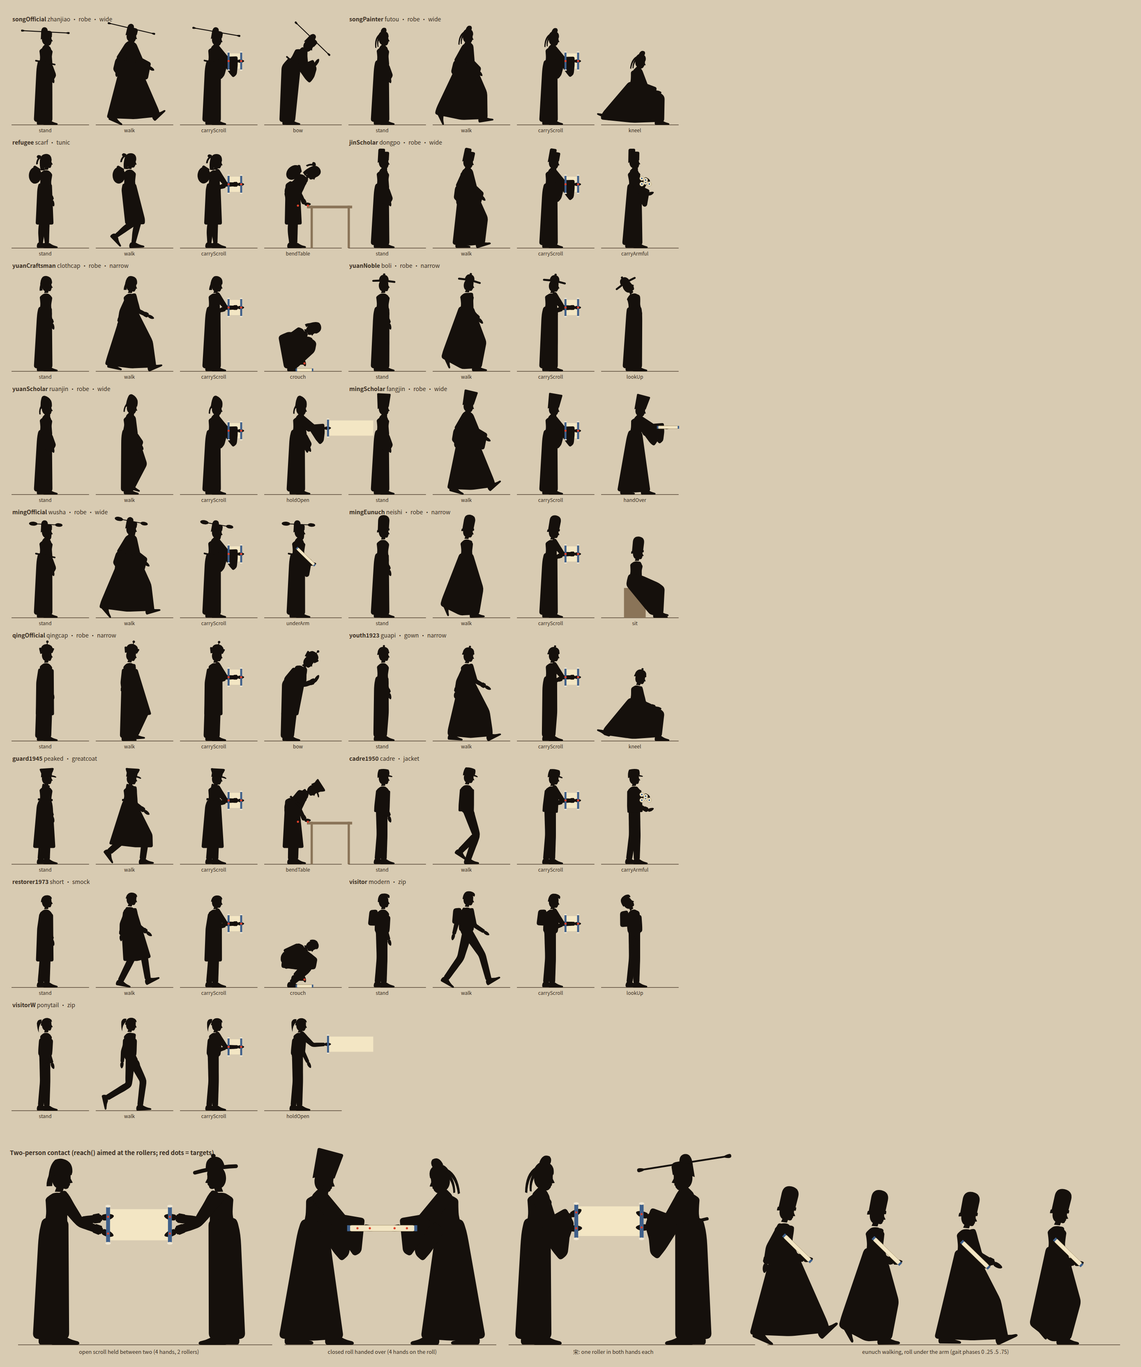
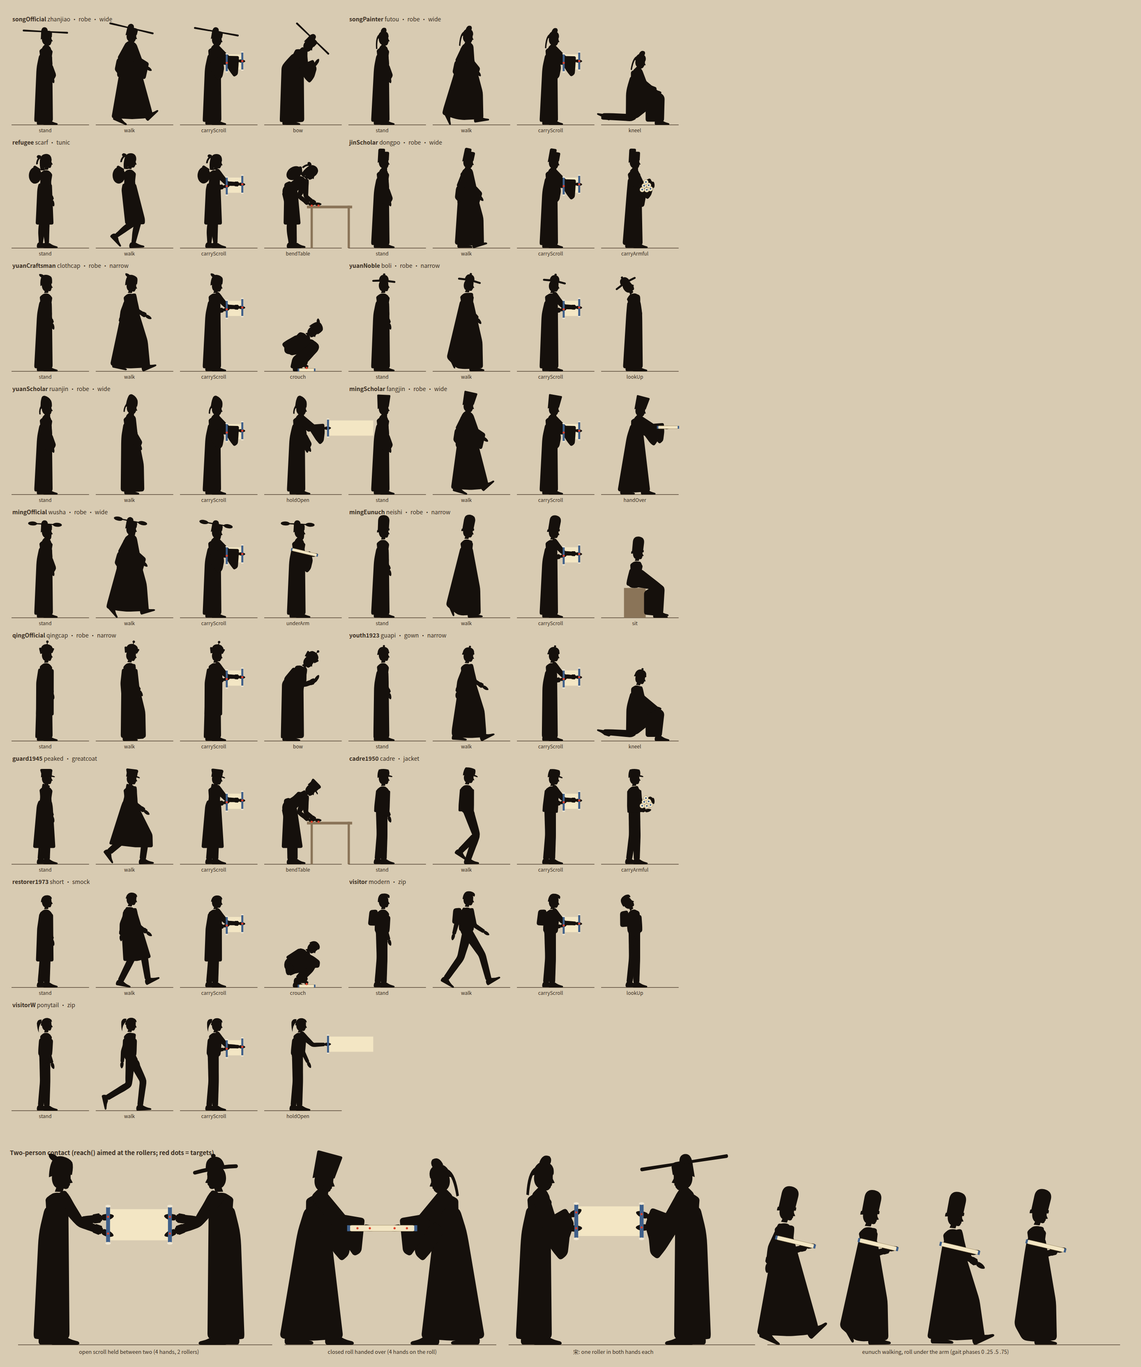
ep43 film: silhouette figure kit (17 era looks, IK contacts, pose builders) + sheet
Claude-Session: https://claude.ai/code/session_01C8LPkwnEu6qcFveZs3Kp2N

diff --git a/episodes/43-qingming/film/src/figures.ts b/episodes/43-qingming/film/src/figures.ts
@@ -37,14 +37,13 @@ export type LookQ = {
 	sleeves?: 'wide' | 'narrow';
 	beard?: 'short' | 'long' | 'full' | 'moustache';
 	build?: number;                      // girth multiplier (1 = kit)
-	belt?: boolean;                      // official's hoop belt standing off the waist
 	pack?: 'bundle' | 'backpack';        // refugee's cloth bundle / visitor's backpack
 	surcoat?: boolean;                   // 清 knee-length 补褂 over the robe
 };
 
 /** every look the ep43 storyboard needs */
 export const LOOKS = {
-	songOfficial: {head: 'zhanjiao', dress: 'robe', sleeves: 'wide', belt: true, beard: 'short', build: 1.06},
+	songOfficial: {head: 'zhanjiao', dress: 'robe', sleeves: 'wide', beard: 'short', build: 1.06},
 	songPainter: {head: 'futou', dress: 'robe', sleeves: 'wide', beard: 'short'},
 	refugee: {head: 'scarf', dress: 'tunic', pack: 'bundle'},
 	jinScholar: {head: 'dongpo', dress: 'robe', sleeves: 'wide', beard: 'long'},
@@ -52,7 +51,7 @@ export const LOOKS = {
 	yuanNoble: {head: 'boli', dress: 'robe', sleeves: 'narrow', beard: 'moustache', build: 1.08},
 	yuanScholar: {head: 'ruanjin', dress: 'robe', sleeves: 'wide', beard: 'long'},
 	mingScholar: {head: 'fangjin', dress: 'robe', sleeves: 'wide', beard: 'long'},
-	mingOfficial: {head: 'wusha', dress: 'robe', sleeves: 'wide', belt: true, beard: 'full', build: 1.06},
+	mingOfficial: {head: 'wusha', dress: 'robe', sleeves: 'wide', beard: 'full', build: 1.06},
 	mingEunuch: {head: 'neishi', dress: 'robe', sleeves: 'narrow'},
 	qingOfficial: {head: 'qingcap', dress: 'robe', sleeves: 'narrow', surcoat: true, beard: 'moustache'},
 	youth1923: {head: 'guapi', dress: 'gown', sleeves: 'narrow', build: 0.96},
@@ -122,11 +121,20 @@ const calib = (g: string) => {
 	for (let i = 0; i < 16; i++) top += gaitPose(g, i / 16)[`Top`][1] / 16;
 	gaitCal[g] = {phi, k: 1 / top}; return gaitCal[g];
 };
-/** the mocap walk at phase u (loops): feet re-modelled so the stance foot is flat and planted, scaled to head top ≈ 1 */
-export const gaitPose = (g = '08_04', u = 0): Pose => {
-	const c = calib(g), p = rawGait(g, u);
+/**
+ * the mocap walk at phase u (loops): feet re-modelled so the stance foot is flat and planted, scaled to head top ≈ 1.
+ * step < 1 shortens the stride (leg joints pulled toward the hips in x, arm swing halved by the same amount). Use it only
+ * under long robes, where the legs are hidden: stepFor(look) gives 0.72 for robes/gowns and 1 otherwise.
+ */
+export const gaitPose = (g = '08_04', u = 0, step = 1): Pose => {
+	const c = calib(g), p = rawGait(g, u), hx = p.Hips[0], ak = lerp(1, step, 0.5);
+	const toeV: Record<string, P> = {L: nrm(sub(p.LToe, p.LAnk)), R: nrm(sub(p.RToe, p.RAnk))};
+	if (step !== 1) for (const s of ['L', 'R']) {
+		for (const j of ['Up', 'Knee', 'Ank']) p[`${s}${j}`] = [hx + (p[`${s}${j}`][0] - hx) * step, p[`${s}${j}`][1]];
+		const sh = p[`${s}Sh`]; for (const j of ['Elb', 'Hand']) p[`${s}${j}`] = [sh[0] + (p[`${s}${j}`][0] - sh[0]) * ak, p[`${s}${j}`][1]];
+	}
 	for (const s of ['L', 'R']) {   // rebuild the toe on the sole line of our foot model
-		const A = p[`${s}Ank`], v = nrm(sub(p[`${s}Toe`], A)), sd = rot(v, -c.phi), m: P = [-sd[1], sd[0]];
+		const A = p[`${s}Ank`], v = toeV[s], sd = rot(v, -c.phi), m: P = [-sd[1], sd[0]];
 		p[`${s}Toe`] = add(sub(A, mul(m, BL.ankle)), mul(sd, BL.foot));
 		p[`${s}Tip`] = tipOf(p[`${s}Elb`], p[`${s}Hand`]);
 	}
@@ -135,7 +143,11 @@ export const gaitPose = (g = '08_04', u = 0): Pose => {
 	return q;
 };
 /** body units travelled per gait cycle (advance x by stride * h * cycles so the feet do not slide) */
-export const gaitStride = (g = '08_04') => GAITS[g].stride * calib(g).k;
+export const gaitStride = (g = '08_04', step = 1) => GAITS[g].stride * calib(g).k * step;
+/** stride scale for a look: long robes and gowns walk with shorter steps so the hem does not tent out */
+export const stepFor = (look: LookQ) => (look.dress === 'robe' || look.dress === 'gown' ? 0.72 : 1);
+/** a walk pose suited to the look (gaitPose with stepFor(look)); advance x by gaitStride(g, stepFor(look)) * h per cycle */
+export const walkFor = (look: LookQ, u: number, g = '08_04'): Pose => gaitPose(g, u, stepFor(look));
 export const gaitSeconds = (g = '08_04') => GAITS[g].seconds;
 
 /** designed pose by 2D forward kinematics. Degrees; legs/arms from straight down, + = forward; lw/rw bend the hand off the forearm */
@@ -271,18 +283,17 @@ export const figurePaths = (o: FigOpts): string[] => {
 	const hp = (d: string) => out.push(tx(d, HL));
 	hp('M-0.02,0.07 C-0.066,0.05 -0.072,-0.045 -0.018,-0.066 C0.028,-0.08 0.058,-0.046 0.055,-0.014 L0.058,0.002 L0.074,0.024 L0.058,0.03 L0.06,0.041 L0.055,0.047 C0.057,0.064 0.041,0.072 0.025,0.068 L0.022,0.09 L-0.025,0.095 Z');
 	const sw = Math.sin(T * 3.1) * 0.01, sw2 = Math.sin(T * 3.7 + 1) * 0.012;
-	const wing = (x0: number, x1: number, y: number, t0: number, t1: number) => { const dx = Math.sign(x1 - x0), e = x1 - dx * t1 / 2;   // a straight wing ending in a round paddle
-		return `M${x0},${y - t0 / 2} L${e - dx * 0.03},${y - t0 / 2} Q${e - dx * 0.012},${y - t1 / 2} ${e},${y - t1 / 2} Q${x1},${y - t1 / 2} ${x1},${y} Q${x1},${y + t1 / 2} ${e},${y + t1 / 2} Q${e - dx * 0.012},${y + t1 / 2} ${e - dx * 0.03},${y + t0 / 2} L${x0},${y + t0 / 2} Z`; };
+	const strap = (x0: number, x1: number, y: number, t0: number, t1: number) => { const dx = Math.sign(x1 - x0), r = t1 * 0.45, e = x1 - dx * r;   // a flat straight strap, a touch wider at the end, softly squared tip
+		return `M${x0},${y - t0 / 2} L${e},${y - t1 / 2} Q${x1},${y - t1 / 2} ${x1},${y - t1 / 2 + r} L${x1},${y + t1 / 2 - r} Q${x1},${y + t1 / 2} ${e},${y + t1 / 2} L${x0},${y + t0 / 2} Z`; };
 	switch (look.head) {
 		case 'zhanjiao':   // stiff black cap, raised back, long straight wings
 			hp('M-0.07,0.012 L-0.07,-0.07 Q-0.068,-0.096 -0.042,-0.098 L0.032,-0.096 Q0.058,-0.094 0.06,-0.068 L0.06,-0.022 Q0.0,-0.03 -0.07,0.012 Z');
 			hp('M-0.07,-0.07 Q-0.072,-0.134 -0.032,-0.136 Q0.004,-0.136 0.008,-0.09 Z');
-			hp(wing(-0.03, -0.31, -0.082, 0.011, 0.024)); hp(wing(-0.03, 0.27, -0.082, 0.011, 0.024)); break;
+			hp(strap(-0.02, -0.29, -0.084, 0.016, 0.022)); hp(strap(-0.02, 0.25, -0.084, 0.016, 0.022)); break;
 		case 'futou':      // soft 幞头: round crown, knot bump, two soft tails
 			hp('M-0.068,0.004 Q-0.068,-0.092 0.0,-0.092 Q0.057,-0.088 0.058,-0.024 Q0.0,-0.034 -0.068,0.004 Z');
 			hp('M-0.04,-0.082 Q-0.03,-0.142 0.016,-0.13 Q0.036,-0.112 0.026,-0.084 Z');
-			hp(`M-0.058,-0.05 Q-0.112,${0.0 + sw} ${-0.104 + sw2},0.112 L${-0.09 + sw2},0.114 Q-0.094,0.012 -0.044,-0.032 Z`);
-			hp(`M-0.05,-0.04 Q-0.09,${0.02 + sw} ${-0.074 + sw2 * 0.7},0.1 L${-0.062 + sw2 * 0.7},0.1 Q-0.072,0.03 -0.036,-0.024 Z`); break;
+			hp(`M-0.062,-0.046 Q-0.1,${-0.01 + sw} ${-0.094 + sw2},0.124 L${-0.078 + sw2},0.126 Q-0.08,0.0 -0.05,-0.03 Z`); break;
 		case 'scarf':      // wrapped cloth over skull and nape, knot and short ends at the back
 			hp('M0.058,-0.018 Q0.054,-0.094 -0.006,-0.096 Q-0.074,-0.094 -0.082,-0.02 Q-0.086,0.05 -0.064,0.104 L-0.02,0.1 Q-0.028,0.04 -0.026,0.0 Q0.0,-0.036 0.058,-0.018 Z');
 			hp('M-0.07,-0.07 Q-0.112,-0.09 -0.122,-0.056 Q-0.112,-0.028 -0.072,-0.038 Z');
@@ -290,8 +301,8 @@ export const figurePaths = (o: FigOpts): string[] => {
 		case 'dongpo':     // tall cap: high back wall, stepped lower front
 			hp('M-0.07,0.012 L-0.07,-0.136 Q-0.07,-0.158 -0.046,-0.158 L-0.006,-0.158 Q0.01,-0.158 0.01,-0.142 L0.01,-0.124 L0.042,-0.124 Q0.06,-0.124 0.06,-0.106 L0.06,-0.022 Q0.0,-0.03 -0.07,0.012 Z'); break;
 		case 'clothcap':   // soft rounded cap, slight peak at the back, short flap over the nape
-			hp('M-0.076,0.022 Q-0.084,-0.064 -0.052,-0.098 Q-0.02,-0.118 0.018,-0.104 Q0.056,-0.09 0.062,-0.04 L0.06,-0.02 Q0.0,-0.032 -0.076,0.022 Z');
-			hp('M-0.07,-0.02 Q-0.088,0.03 -0.08,0.07 L-0.046,0.064 Q-0.052,0.02 -0.04,-0.02 Z'); break;
+			hp('M-0.074,0.014 Q-0.084,-0.06 -0.066,-0.098 Q-0.048,-0.126 -0.01,-0.124 Q0.034,-0.12 0.052,-0.098 Q0.064,-0.076 0.062,-0.022 Q0.0,-0.032 -0.074,0.014 Z');
+			hp('M-0.066,-0.088 Q-0.1,-0.104 -0.096,-0.128 Q-0.068,-0.136 -0.04,-0.116 Z'); break;   // soft cloth gathered into a fold at the back
 		case 'boli': {     // 钹笠: dome crown + flat brim with ROUND ends (a stadium, never a point)
 			hp('M-0.058,-0.044 Q-0.06,-0.122 0.0,-0.124 Q0.058,-0.122 0.058,-0.044 Z');
 			hp(ell(0, -0.13, 0.014, 0.012));
@@ -301,12 +312,12 @@ export const figurePaths = (o: FigOpts): string[] => {
 			hp('M-0.072,0.012 Q-0.08,-0.07 -0.07,-0.112 Q-0.064,-0.152 -0.032,-0.15 Q0.022,-0.138 0.048,-0.096 Q0.062,-0.066 0.06,-0.022 Q0.0,-0.032 -0.072,0.012 Z');
 			hp(`M-0.064,-0.04 Q-0.098,${0.01 + sw} ${-0.094 + sw2},0.074 L${-0.078 + sw2},0.074 Q-0.08,0.016 -0.05,-0.03 Z`); break;
 		case 'fangjin':    // tall flat-topped square cap, wider at the top
-			hp('M-0.07,0.01 L-0.086,-0.166 Q-0.087,-0.178 -0.074,-0.178 L0.064,-0.178 Q0.076,-0.178 0.075,-0.166 L0.06,-0.022 Q0.0,-0.03 -0.07,0.01 Z'); break;
+			hp('M-0.07,0.01 L-0.084,-0.152 Q-0.085,-0.163 -0.073,-0.163 L0.062,-0.163 Q0.074,-0.163 0.073,-0.152 L0.06,-0.022 Q0.0,-0.03 -0.07,0.01 Z'); break;
 		case 'wusha':      // 乌纱帽: low front, raised round back, oval wings on short stalks
 			hp('M-0.07,0.012 L-0.07,-0.066 Q-0.068,-0.09 -0.042,-0.092 L0.032,-0.09 Q0.058,-0.088 0.06,-0.064 L0.06,-0.022 Q0.0,-0.03 -0.07,0.012 Z');
 			hp('M-0.07,-0.068 Q-0.074,-0.132 -0.03,-0.134 Q0.008,-0.132 0.01,-0.086 Z');
-			hp('M-0.04,-0.092 L-0.12,-0.092 L-0.12,-0.082 L-0.04,-0.082 Z'); hp(ell(-0.165, -0.087, 0.05, 0.024));
-			hp('M-0.0,-0.092 L0.1,-0.092 L0.1,-0.082 L-0.0,-0.082 Z'); hp(ell(0.14, -0.087, 0.044, 0.021)); break;
+			hp('M-0.03,-0.097 L-0.13,-0.096 L-0.13,-0.082 L-0.03,-0.081 Z'); hp(ell(-0.172, -0.089, 0.054, 0.024));
+			hp('M-0.03,-0.097 L0.08,-0.096 L0.08,-0.082 L-0.03,-0.081 Z'); hp(ell(0.122, -0.089, 0.054, 0.024)); break;
 		case 'neishi':     // eunuch: tall rounded cap on a band
 			hp('M-0.07,0.008 L-0.072,-0.13 Q-0.072,-0.196 -0.006,-0.198 Q0.062,-0.196 0.062,-0.13 L0.06,-0.022 Q0.0,-0.03 -0.07,0.008 Z');
 			hp('M-0.078,0.014 Q-0.08,-0.004 -0.077,-0.016 L0.066,-0.044 Q0.07,-0.032 0.068,-0.018 Z'); break;
@@ -319,8 +330,8 @@ export const figurePaths = (o: FigOpts): string[] => {
 			hp('M-0.076,0.004 L-0.076,-0.014 L0.065,-0.04 L0.065,-0.024 Z'); hp(ell(-0.002, -0.106, 0.013, 0.012)); break;
 		case 'peaked':     // band, crown flaring up to a raised front (saddle), short visor
 			hp('M-0.068,-0.006 L-0.068,-0.058 L0.06,-0.066 L0.06,-0.026 Q0.0,-0.03 -0.068,-0.006 Z');
-			hp('M-0.068,-0.054 Q-0.084,-0.08 -0.09,-0.1 Q-0.086,-0.112 -0.064,-0.11 L0.05,-0.124 Q0.076,-0.128 0.078,-0.114 Q0.072,-0.084 0.06,-0.062 Z');
-			hp('M0.05,-0.036 Q0.09,-0.038 0.112,-0.022 Q0.116,-0.012 0.102,-0.012 Q0.08,-0.018 0.05,-0.018 Z'); break;
+			hp('M-0.068,-0.054 Q-0.078,-0.076 -0.082,-0.094 Q-0.08,-0.106 -0.062,-0.106 L0.03,-0.111 Q0.062,-0.113 0.063,-0.094 Q0.063,-0.078 0.058,-0.062 Z');
+			hp('M0.05,-0.034 Q0.08,-0.036 0.096,-0.024 Q0.099,-0.015 0.088,-0.015 Q0.07,-0.019 0.05,-0.018 Z'); break;
 		case 'cadre':      // soft cap, flattish crown, short visor
 			hp('M-0.072,0.0 Q-0.08,-0.064 -0.062,-0.1 Q0.0,-0.118 0.052,-0.104 Q0.07,-0.084 0.064,-0.032 Q0.0,-0.034 -0.072,0.0 Z');
 			hp('M0.054,-0.038 Q0.088,-0.038 0.104,-0.026 Q0.104,-0.016 0.09,-0.018 Q0.072,-0.022 0.054,-0.02 Z'); break;
@@ -339,20 +350,33 @@ export const figurePaths = (o: FigOpts): string[] => {
 	// ---- clothing, built on the skeleton
 	const W = add(H, mul(u, 0.07)), tf = (q: P, a: number, c: number): P => add(q, add(mul(f, a), mul(u, c)));   // torso frame offsets
 	const legs = (['L', 'R'] as const).map((s) => ({K: p[`${s}Knee`], A: p[`${s}Ank`], U: p[`${s}Up`]}));
-	if (robeLike) {   // long robe: hull over waist, seat, knees and ankles; hem just above the ankles so the shoes show
-		const g = look.dress === 'gown', fl = g ? 0 : look.surcoat ? 0.004 : 0.018, mf = g ? 0.034 : 0.044, mb = g ? 0.046 : 0.058;
-		const pts: P[] = [tf(W, -0.076 * b, 0), tf(W, 0.07 * b, 0), tf(H, -0.088 * b, 0), tf(H, 0.074 * b, 0), tf(H, -0.09 * b, -0.06), tf(H, 0.072 * b, -0.06)];
-		for (const {K, A} of legs) {
+	if (robeLike) {   // long robe over the leg skeleton: waist→knees hull + knees→hem hull; a shin lying on the floor (kneeling) gets its own piece
+		const g = look.dress === 'gown', fl = g ? 0 : look.surcoat ? 0.004 : 0.016, mf = g ? 0.034 : 0.044, mb = g ? 0.046 : 0.056;
+		// standing / walking (both thighs near vertical): one A-line hull. Seated, kneeling, squatting: waist→knees hull, then the
+		// robe hangs from each horizontal thigh to the floor like a curtain; a shin lying on the floor gets its own low piece.
+		const upper: P[] = [tf(sp, -0.068 * b, -0.02), tf(sp, 0.064 * b, -0.02), tf(W, -0.078 * b, 0), tf(W, 0.07 * b, 0), tf(H, -0.088 * b, 0), tf(H, 0.074 * b, 0), tf(H, -0.09 * b, -0.06), tf(H, 0.072 * b, -0.06)], lower: P[] = [], hems: P[] = [], lying: P[][] = [];
+		const angDown = (a: P, c: P) => Math.atan2(Math.abs(c[0] - a[0]), a[1] - c[1]) / D;
+		const split = legs.some(({U, K, A}) => angDown(U, K) > 50 || angDown(K, A) > 55);
+		for (const {U, K, A} of legs) {
 			const hy = Math.max(A[1] - (g ? 0.0 : 0.01), 0.012);
-			pts.push(add(K, [-0.064 * b, 0]), add(K, [0.058 * b, 0]), add(K, [0, 0.05]), add(A, [-mb, 0.06]), add(A, [mf, 0.06]), [A[0] - mb - fl, hy], [A[0] + mf + fl, hy]);
+			const kp: P[] = [add(K, [-0.064 * b, 0]), add(K, [0.058 * b, 0]), add(K, [0, 0.05])], fp: P[] = [add(A, [-mb, 0.06]), add(A, [mf, 0.06]), [A[0] - mb - fl, hy], [A[0] + mf + fl, hy]];
+			upper.push(...kp);
+			if (angDown(K, A) > 55) { lying.push([...kp, add(K, [0, -0.03]), ...fp]); continue; }
+			lower.push(...kp, ...fp); hems.push(A);
+			if (split && angDown(U, K) > 50) { const c = mix(U, K, 0.42); lower.push(add(c, [0, -0.04]), [c[0], hy]); }
 		}
-		const [a1, a2] = [legs[0].A, legs[1].A];
-		pts.push([(a1[0] + a2[0]) / 2, Math.max(0.008, Math.min(a1[1], a2[1]) - 0.022)]);
-		out.push(rounded(hull(pts), 0.03));
-		if (look.surcoat) {   // 清 补褂: knee length, a step wider than the robe
-			const sp2: P[] = [tf(sp, -0.084 * b, 0), tf(sp, 0.086 * b, 0), tf(H, -0.1 * b, 0), tf(H, 0.09 * b, 0)];
-			for (const {K} of legs) sp2.push(add(K, [-0.082, -0.03]), add(K, [0.08, -0.03]));
-			out.push(rounded(hull(sp2), 0.02));
+		if (hems.length === 2) lower.push([(hems[0][0] + hems[1][0]) / 2, Math.max(0.008, Math.min(hems[0][1], hems[1][1]) - 0.022)]);
+		if (split) { out.push(rounded(hull(upper), 0.03)); if (lower.length) out.push(rounded(hull(lower), 0.03)); }
+		else {   // the cloth falls straight down from its widest points (seat, belly, a forward knee) to the hem
+			const all = [...upper, ...lower], hy = Math.max(0.012, Math.min(legs[0].A[1], legs[1].A[1]) - 0.012);
+			const xs = upper.filter((q) => q[1] > hy + 0.05).map((q) => q[0]);
+			out.push(rounded(hull([...all, [Math.min(...xs) - 0.006, hy], [Math.max(...xs) + 0.006, hy]]), 0.03));
+		}
+		for (const l of lying) out.push(rounded(hull(l), 0.025));
+		if (look.surcoat) {   // 清 补褂: hangs from the shoulders to just below the knee, a step wider than the robe
+			const s2: P[] = [tf(sp, -0.084 * b, 0), tf(sp, 0.086 * b, 0), tf(H, -0.1 * b, 0), tf(H, 0.092 * b, 0)];
+			for (const {K, A} of legs) { const k = mix(K, A, 0.12), kx = H[0] + (k[0] - H[0]) * 0.55; s2.push([kx - 0.088, k[1]], [kx + 0.084, k[1]]); }
+			out.push(rounded(hull(s2), 0.02));
 		}
 	}
 	const skirt = (hemAt: number, mf: number, mb: number, flare: number, top: P[]) => {   // coat skirts: hull from the torso down to a hem between knee and ankle
@@ -365,10 +389,7 @@ export const figurePaths = (o: FigOpts): string[] => {
 	if (look.dress === 'smock') skirt(0.1, 0.068 * b, 0.072 * b, 0.006, [tf(sp, -0.074 * b, 0.02), tf(sp, 0.078 * b, 0.02), tf(W, -0.082 * b, 0), tf(W, 0.08 * b, 0), tf(H, -0.09 * b, 0), tf(H, 0.084 * b, 0)]);
 	if (look.dress === 'jacket') out.push(rounded(hull([tf(sp, -0.076 * b, 0.02), tf(sp, 0.08 * b, 0.02), tf(H, -0.086 * b, 0), tf(H, 0.084 * b, 0), tf(H, -0.086 * b, -0.07), tf(H, 0.084 * b, -0.07)]), 0.014));
 	if (look.dress === 'zip') out.push(rounded(hull([tf(sp, -0.08 * b, 0.0), tf(sp, 0.084 * b, 0.0), tf(H, -0.084 * b, 0.02), tf(H, 0.084 * b, 0.02), tf(H, -0.08 * b, -0.04), tf(H, 0.08 * b, -0.04)]), 0.03));
-	if (look.dress === 'greatcoat') {   // broad collar at the neck, belted waist
-		out.push(rounded([tf(p.Neck1, -0.05, -0.03), tf(p.Neck1, 0.032, -0.04), tf(p.Neck1, 0.04, 0.012), tf(p.Neck1, -0.042, 0.03)], 0.012));
-		out.push(rounded([tf(W, -0.082 * b, 0.012), tf(W, 0.076 * b, 0.012), tf(W, 0.076 * b, -0.012), tf(W, -0.082 * b, -0.012)], 0.006));
-	}
+	if (look.dress === 'greatcoat') out.push(rounded([tf(p.Neck1, -0.05, -0.03), tf(p.Neck1, 0.032, -0.04), tf(p.Neck1, 0.04, 0.012), tf(p.Neck1, -0.042, 0.03)], 0.012));   // broad turned-up collar
 	// ---- wide sleeves: per arm segment, a bag that hangs by gravity below the arm
 	if (look.sleeves === 'wide') for (const s of ['R', 'L']) {
 		const sh = p[`${s}Sh`], el = p[`${s}Elb`], wr = p[`${s}Hand`], dn: P = [0, -1];
@@ -383,8 +404,6 @@ export const figurePaths = (o: FigOpts): string[] => {
 		seg(el, add(wr, mul(nrm(sub(wr, el)), -0.006)), 0.046 * b, 0.05 * b, 0.13, true);
 	}
 	// ---- belt, packs
-	if (look.belt) { const c = tf(W, 0, -0.012), e1 = tf(c, -0.115, 0.004), e2 = tf(c, 0.112, -0.03), d = nrm(sub(e2, e1)), n: P = [-d[1], d[0]];
-		out.push(rounded([add(e1, mul(n, 0.009)), add(e2, mul(n, 0.009)), sub(e2, mul(n, 0.009)), sub(e1, mul(n, 0.009))], 0.008)); }
 	if (look.pack === 'bundle') { const c = tf(sp, -0.12, 0.0), e = (a: number, r: number): P => tf(c, Math.cos(a) * 0.072, Math.sin(a) * r);
 		out.push(rounded(Array.from({length: 12}, (_, i) => e((i / 12) * Math.PI * 2, 0.095)), 0.03));
 		out.push(rounded([tf(sp, -0.06, 0.07), tf(sp, -0.13, 0.11), tf(sp, -0.15, 0.09), tf(sp, -0.07, 0.04)], 0.01)); }
@@ -410,7 +429,7 @@ const atReach = (p: Pose, side: Side, y: number, k = 0.92): P => { const sh = p[
 /** both hands on two rollers in front of the chest (near roller with R, far roller with L), e.g. a short open section or a roll's two ends */
 export const carryScroll = (o: {near?: P; far?: P; base?: Pose} = {}): Pose => {
 	const b = o.base ?? fkPose({...STAND, lean: 4, neck: 6}), sh = b.LSh;
-	return reach(reach(b, 'R', o.near ?? [sh[0] + 0.15, sh[1] - 0.15]), 'L', o.far ?? atReach(b, 'L', sh[1] - 0.15, 0.9));
+	return reach(reach(b, 'R', o.near ?? [sh[0] + 0.13, sh[1] - 0.17]), 'L', o.far ?? atReach(b, 'L', sh[1] - 0.15, 0.93));
 };
 /** one hand on a roller at arm's length (the open scroll held between two people); both = the other hand on the same roller, lower */
 export const holdOpen = (o: {at?: P; both?: boolean; base?: Pose} = {}): Pose => {
@@ -438,41 +457,47 @@ export const kneel = (o: {at?: P} = {}): Pose => {
 	const k = b.LKnee;
 	return reach(reach(b, 'R', [k[0] - 0.01, k[1] + 0.047], {dir: -8}), 'L', [k[0] - 0.075, k[1] + 0.05], {dir: -4});
 };
-/** bent over a table (surface at height `top`), hand(s) flat on it; flatX = palm x of the far hand (auto: within reach) */
+const BEND = (lean: number): FK => ({hip: 0.645, hipX: -0.1 - Math.max(0, lean - 55) * 0.0015, lean, neck: -6, lt: 10, lk: 8, rt: 6, rk: 6, la: 20, le: 30, ra: 10, re: 20});
+/**
+ * bent over a table whose surface is at height `top`, the far (L) hand flat on it at palm x `flatX` (auto: well within reach).
+ * other: 'flat' = the near hand flat too, a little nearer the body; a point = the near palm there; 'hang' = left alone.
+ */
 export const bendTable = (o: {top?: number; flatX?: number; other?: P | 'flat' | 'hang'; lean?: number} = {}): Pose => {
-	const top = o.top ?? 0.47, y = top + 0.017;
-	let lean = o.lean ?? 42, b = fkPose({hip: 0.64, hipX: -0.07, lean, neck: 18, lt: 8, lk: 8, rt: 4, rk: 6, la: 20, le: 30, ra: 10, re: 20});
-	while (b.LSh[1] - (y - 0.0) > (BL.upper + BL.fore) * 0.93 && lean < 80) { lean += 4; b = fkPose({hip: 0.64, hipX: -0.07 - (lean - 42) * 0.0015, lean, neck: 18, lt: 8, lk: 8, rt: 4, rk: 6, la: 20, le: 30, ra: 10, re: 20}); }
-	const sh = b.LSh, r = (BL.upper + BL.fore) * 0.92, dy = sh[1] - y, x = o.flatX ?? sh[0] + Math.sqrt(Math.max(0, r * r - dy * dy)) + BL.grip;
+	const top = o.top ?? 0.47, y = top + 0.017, r = (BL.upper + BL.fore) * 0.92;
+	let lean = o.lean ?? 55, b = fkPose(BEND(lean));
+	while (b.LSh[1] - y > r * 0.96 && lean < 80) b = fkPose(BEND((lean += 3)));
+	const sh = b.LSh, dy = sh[1] - y, x = o.flatX ?? sh[0] + Math.sqrt(Math.max(0, r * r - dy * dy)) + BL.grip;
 	let q = reach(b, 'L', [x, y], {dir: 0});
 	const other = o.other ?? 'flat';
-	if (other === 'flat') q = reach(q, 'R', [x - 0.11, y], {dir: -6});
+	if (other === 'flat') q = reach(q, 'R', [x - 0.075, y], {dir: -4});
 	else if (other !== 'hang') q = reach(q, 'R', other);
 	return q;
 };
-/** carrying an armful of rolled scrolls (or a bundle) against the chest; see armfulAt() for where the load sits */
-export const carryArmful = (): Pose => {
-	const b = fkPose({hip: 0.655, lean: -3, neck: 4, lt: 3, lk: 3, rt: -4, rk: 4, la: 0, le: 90, ra: 0, re: 90}), sh = b.LSh;
-	return reach(reach(b, 'R', [sh[0] + 0.19, sh[1] - 0.25], {dir: 20}), 'L', [sh[0] + 0.15, sh[1] - 0.1], {dir: -30});
+/** the load of carryArmful(): centre and radius in body units, relative to the shoulder */
+const ARMFUL: P = [0.13, -0.17], ARMFUL_R = 0.075;
+/** carrying an armful of rolled scrolls (or a cloth bundle) against the chest: near forearm under the load, far hand over its front */
+export const carryArmful = (base?: Pose): Pose => {
+	const b = base ?? fkPose({hip: 0.655, lean: -3, neck: 6, lt: 3, lk: 3, rt: -4, rk: 4, la: 0, le: 90, ra: 0, re: 90}), c = add(b.LSh, ARMFUL);
+	return reach(reach(b, 'R', [c[0] + 0.03, c[1] - ARMFUL_R - 0.014], {dir: 12}), 'L', [c[0] + ARMFUL_R + 0.008, c[1] + 0.012], {dir: -78});
 };
 /** centre and radius (body units) of the load held by carryArmful() */
-export const armfulAt = (p: Pose): {c: P; r: number} => { const {u, f} = frame(p); return {c: add(p.Spine1, add(mul(f, 0.15), mul(u, -0.06))), r: 0.075}; };
-/** crouched low to pick something up from the floor: the near hand's palm at `at` (default: in reach in front of the feet) */
+export const armfulAt = (p: Pose): {c: P; r: number} => ({c: add(p.LSh, ARMFUL), r: ARMFUL_R});
+/** squatting to pick something up from the floor: the near (R) palm at `at` (default: on the floor in front of the knees) */
 export const crouch = (o: {at?: P} = {}): Pose => {
-	const b = fkPose({hip: 0.3, hipX: -0.12, lean: 60, neck: 14, lt: 100, lk: 142, rt: 78, rk: 128, la: 20, le: 20, ra: 20, re: 20});
-	const sh = b.RSh, y = Math.max(o.at?.[1] ?? 0.04, sh[1] - ARM_REACH * 0.96), at = o.at ?? atReach(b, 'R', y, 0.96);
+	const b = fkPose({hip: 0.22, hipX: -0.08, lean: 52, neck: 6, lt: 110, lk: 152, rt: 98, rk: 142, la: 20, le: 20, ra: 20, re: 20});
+	const sh = b.RSh, y = Math.max(o.at?.[1] ?? 0.035, sh[1] - ARM_REACH * 0.97), at = o.at ? [o.at[0], Math.max(o.at[1], y)] as P : atReach(b, 'R', y, 0.97);
 	const k = b.LKnee;
-	return reach(reach(b, 'R', [at[0], Math.max(at[1], y)]), 'L', [k[0] - 0.02, k[1] + 0.045], {dir: -10});
+	return reach(reach(b, 'R', at), 'L', [k[0] - 0.03, k[1] + 0.045], {dir: -6});
 };
-/** a roll clamped under the R upper arm, its front end in the R hand; underArmRoll() gives the roll's ends */
+/** a roll clamped under the R upper arm (against the ribs), its front end in the R hand; underArmRoll() gives the roll's ends */
 export const underArm = (base?: Pose): Pose => {
 	const b = base ?? fkPose(STAND), sh = b.RSh;
-	return reach(b, 'R', [sh[0] + 0.15, sh[1] - 0.25], {dir: 8});
+	return reach(b, 'R', [sh[0] + 0.17, sh[1] - 0.15], {dir: 12});
 };
-/** the roll's two ends (body units) for a pose made with underArm() */
-export const underArmRoll = (p: Pose, side: Side = 'R', length = 0.27): [P, P] => {
-	const g = gripOf(p, side), back = add(p[`${side}Sh`], [-0.03, -0.075]), d = nrm(sub(back, g));
-	return [add(g, mul(d, length - 0.02)), add(g, mul(d, -0.02))];
+/** the roll's two ends (body units) for a pose made with underArm(): through the palm and under the armpit, sticking out behind the back */
+export const underArmRoll = (p: Pose, side: Side = 'R', length = 0.29): [P, P] => {
+	const g = gripOf(p, side), pit = add(p[`${side}Sh`], [0, -0.11]), d = nrm(sub(pit, g));
+	return [add(g, mul(d, length - 0.025)), add(g, mul(d, -0.025))];
 };
 
 export const POSES = {
